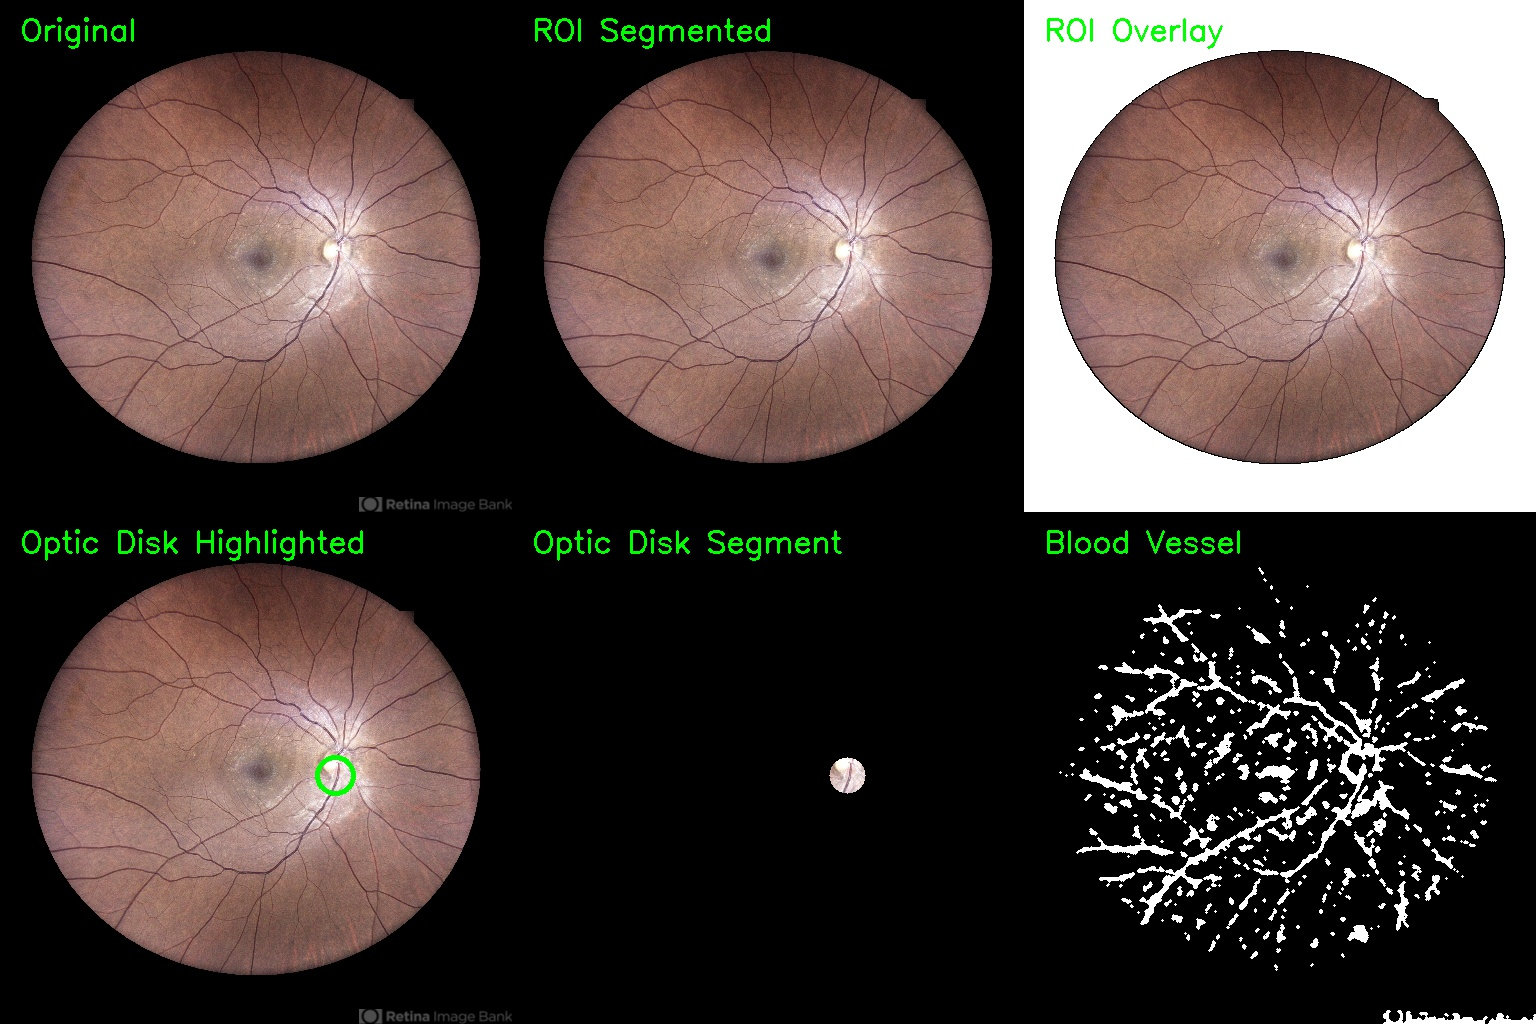
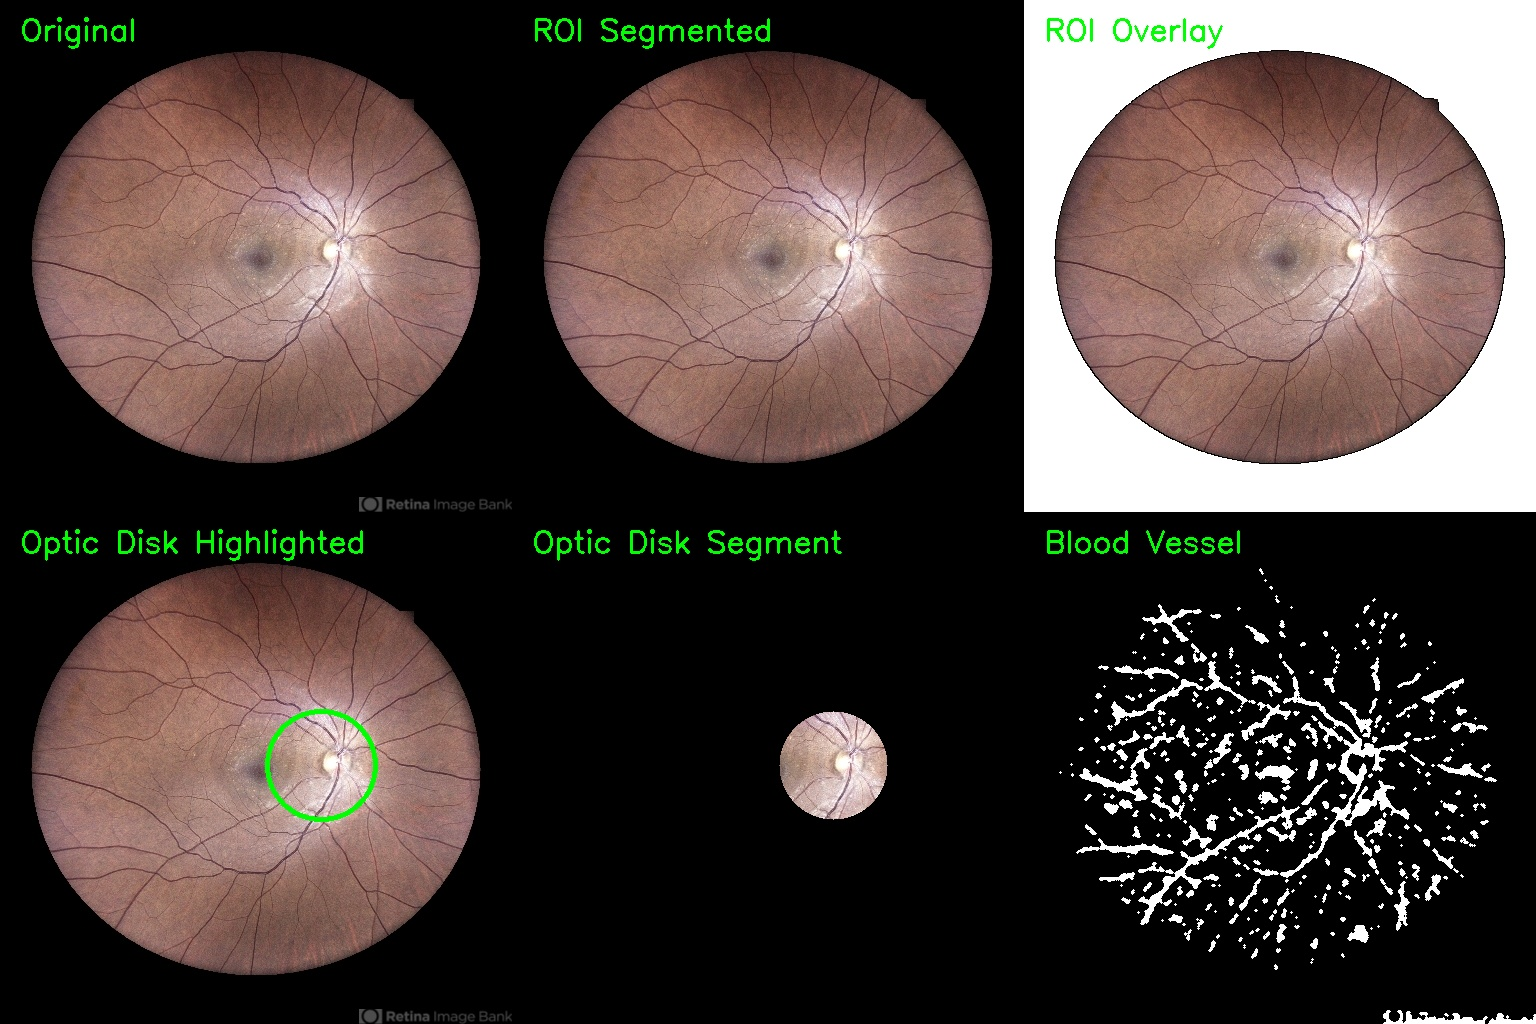
New OD

Changed region(s): [[0.5, 0.6875, 0.5938, 0.8125], [0.1562, 0.6875, 0.25, 0.8125]]

diff --git a/opticDisk.py b/opticDisk.py
@@ -1,25 +1,33 @@
 import cv2
 import numpy as np
+import os
+
+def show_resized(window_name, img, scale=0.5):
+    height, width = img.shape[:2]
+    resized = cv2.resize(img, (int(width*scale), int(height*scale)))
+    cv2.imshow(window_name, resized)
+
 
 def segment_optic_disk(image):
     if image is None:
         print("Error: Could not load image")
         exit()
     
-    # Convert to grayscale
-    gray = cv2.cvtColor(image, cv2.COLOR_BGR2GRAY)
+    # Extract green channel
+    green_channel = image[:, :, 1]
     
-    cv2.imshow("Gray",gray)
+    #cv2.imshow("Green Channel",green_channel)
 
     
     # Apply CLAHE
     clahe = cv2.createCLAHE(clipLimit=2.0, tileGridSize=(8, 8))
-    enhanced = clahe.apply(gray)
-    blurred = cv2.medianBlur(gray, 15)
-    cv2.imshow("Blurred",blurred)
+    enhanced = clahe.apply(green_channel)
+    # cv2.imshow("Enhanced", enhanced)
+    blurred = cv2.medianBlur(enhanced, 15)
+    show_resized("Blurred-Median", blurred, scale=0.5)
     
     # Thresholding
-    _, thresh = cv2.threshold(blurred, 180, 255, cv2.THRESH_BINARY)
+    _, thresh = cv2.threshold(blurred, 160, 255, cv2.THRESH_BINARY)
     
     # Morphological operations
     kernel = cv2.getStructuringElement(cv2.MORPH_ELLIPSE, (15, 15))
@@ -33,7 +41,7 @@ def segment_optic_disk(image):
         (x, y), radius = cv2.minEnclosingCircle(largest_contour)
         center, radius = (int(x), int(y)), int(radius * 0.9)
         
-        mask = np.zeros_like(gray)
+        mask = np.zeros_like(green_channel)
         cv2.circle(mask, center, radius, 255, -1)
         
         optic_disc_segment = cv2.bitwise_and(image, image, mask=mask)
@@ -51,3 +59,16 @@ def segment_optic_disk(image):
                     cv2.FONT_HERSHEY_SIMPLEX, 1, (0, 0, 255), 2)
     
     return highlighted_image, optic_disc_segment
+
+if __name__ == "__main__":
+    image_filename = "retina-8.jpg"
+    image_path = os.path.join("dataset", image_filename)
+
+    image = cv2.imread(image_path)
+
+    highlighted, segmented = segment_optic_disk(image)
+
+    cv2.imshow("Highlighted Image", highlighted)
+    cv2.imshow("Optic Disc Segment", segmented)
+    cv2.waitKey(0)
+    cv2.destroyAllWindows()
